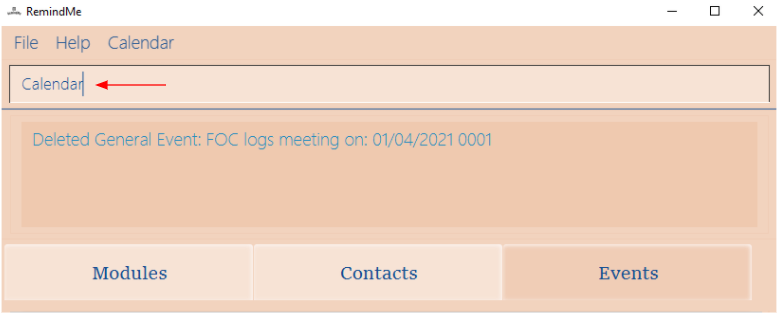
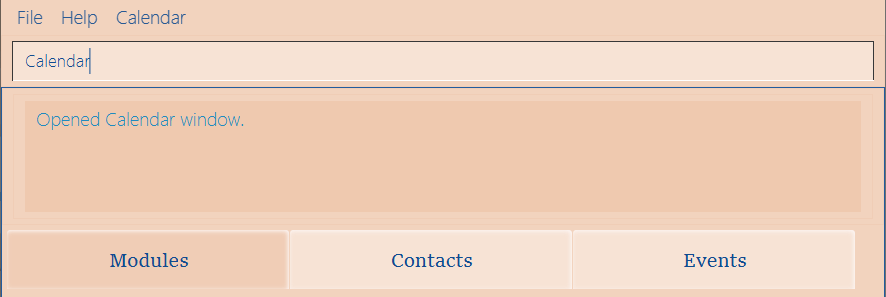
Replace Calendar UG images with correct result display

Changed region(s): [[0.0, 0.0, 1.0, 1.0], [0.4297, 0.8485, 0.5524, 0.9091]]

diff --git a/docs/UserGuide.md b/docs/UserGuide.md
@@ -759,19 +759,19 @@ There are 3 ways to check out the calendar.
 <br>
 1. You can type `calendar` in the command box as shown below.
 <br>
-![calendar1](images/calendar1.png)
+![calendar1](images/Calendar1.png)
 <br>
 <br>
 
 2. Alternatively, you may type shortcut `C` in the command box as shown below.
 <br>
-![calendar2](images/calendar2.png)
+![calendar2](images/Calendar2.png)
 <br>
 <br>
 
 3. You may also click on the drop out calendar menu.
 <br>
-![calendar3](images/calendar3.png)
+![calendar3](images/Calendar3.png)
 <br>
 <br>
 
